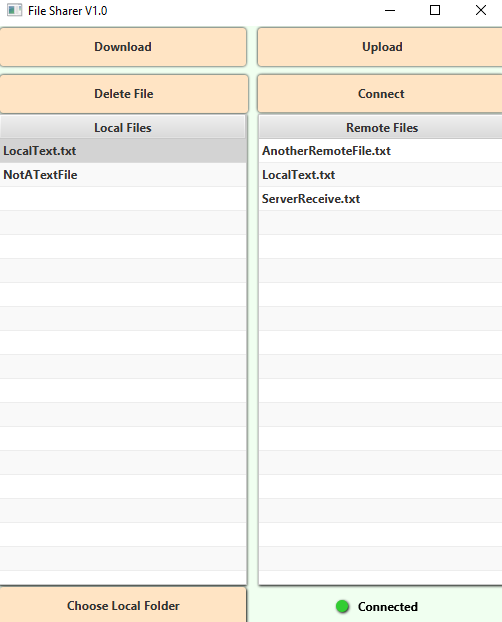
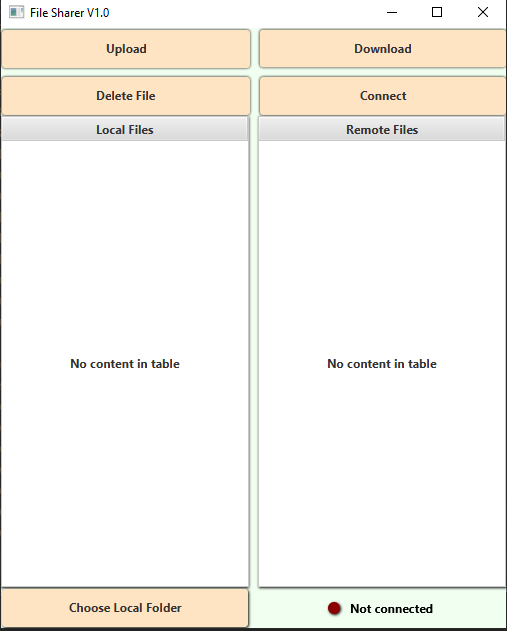
final push

Changed region(s): [[0.0, 0.0, 1.0, 1.0], [0.6275, 0.5498, 0.8665, 0.6109], [0.1195, 0.5498, 0.3586, 0.6109]]

diff --git a/src/sample/Main.java b/src/sample/Main.java
@@ -141,8 +141,8 @@ public class Main extends Application {
         topButtons.setHgap(10);
         topButtons.setVgap(10);
         topButtons.setPadding(new Insets(2, 0, 2, 1));
-        topButtons.add(downloadButton, 0, 0);
-        topButtons.add(uploadButton, 1, 0);
+        topButtons.add(downloadButton, 1, 0);
+        topButtons.add(uploadButton, 0, 0);
         topButtons.add(connectButton,1,1);
         topButtons.add(deleteButton, 0, 1);
 
